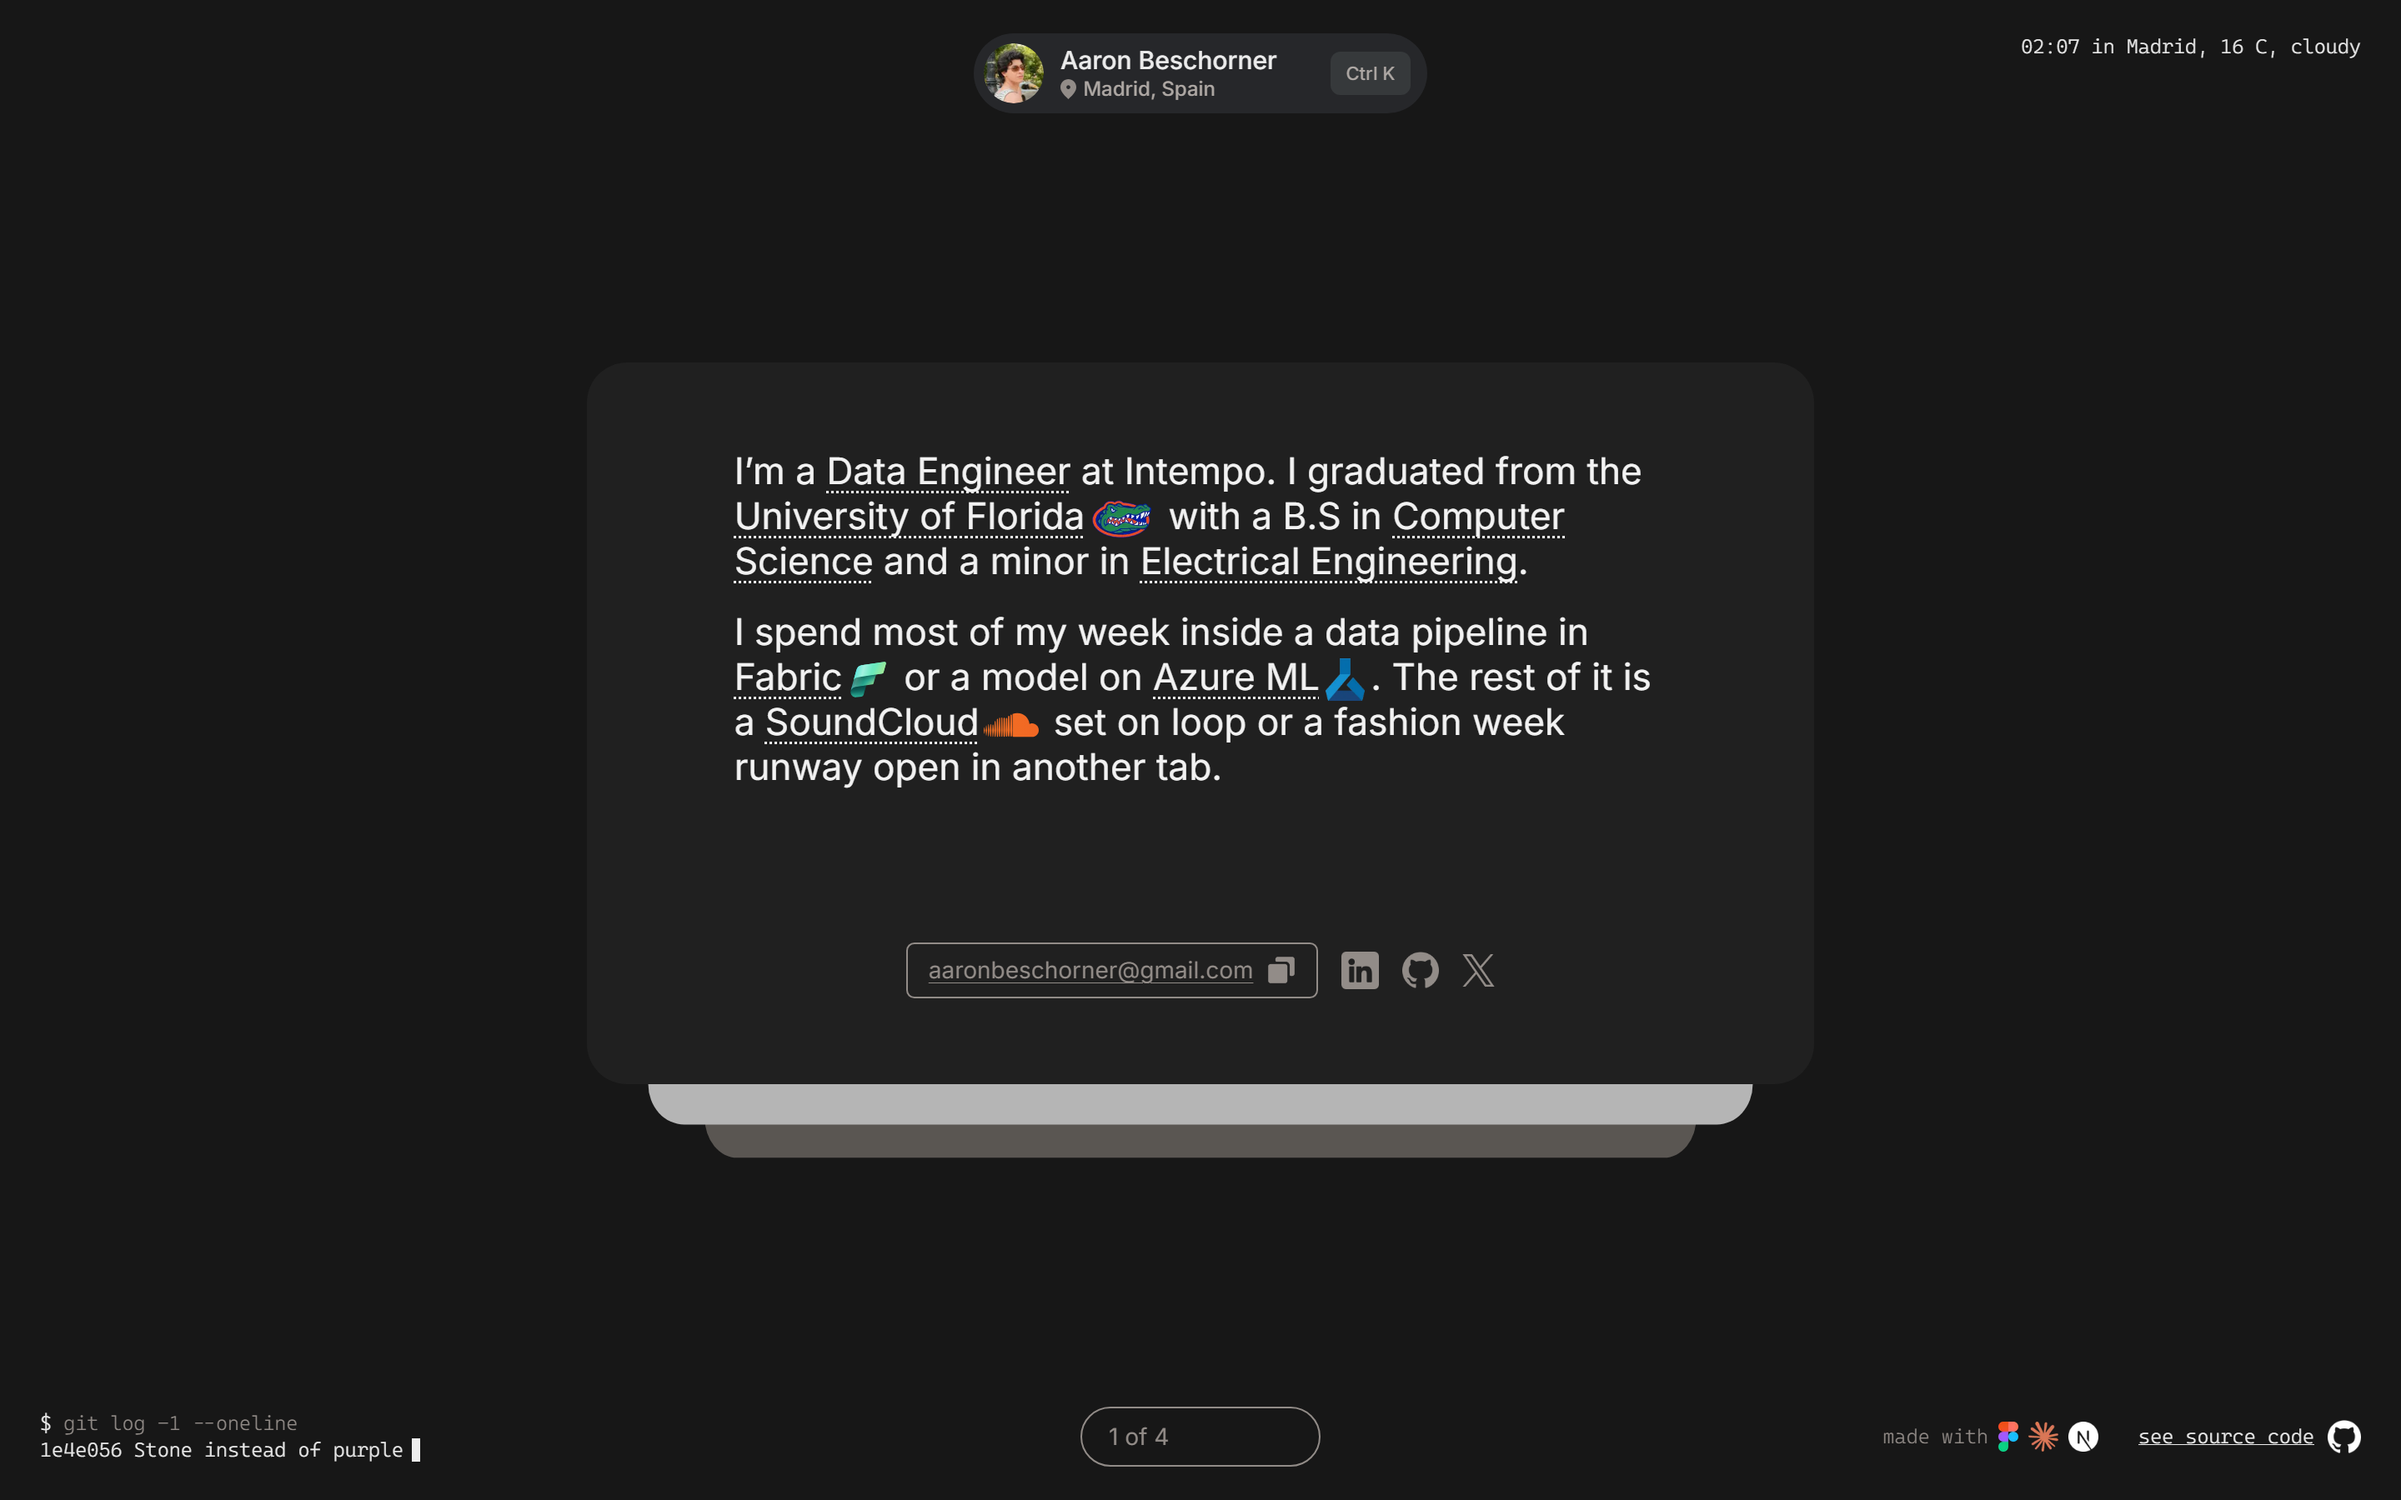
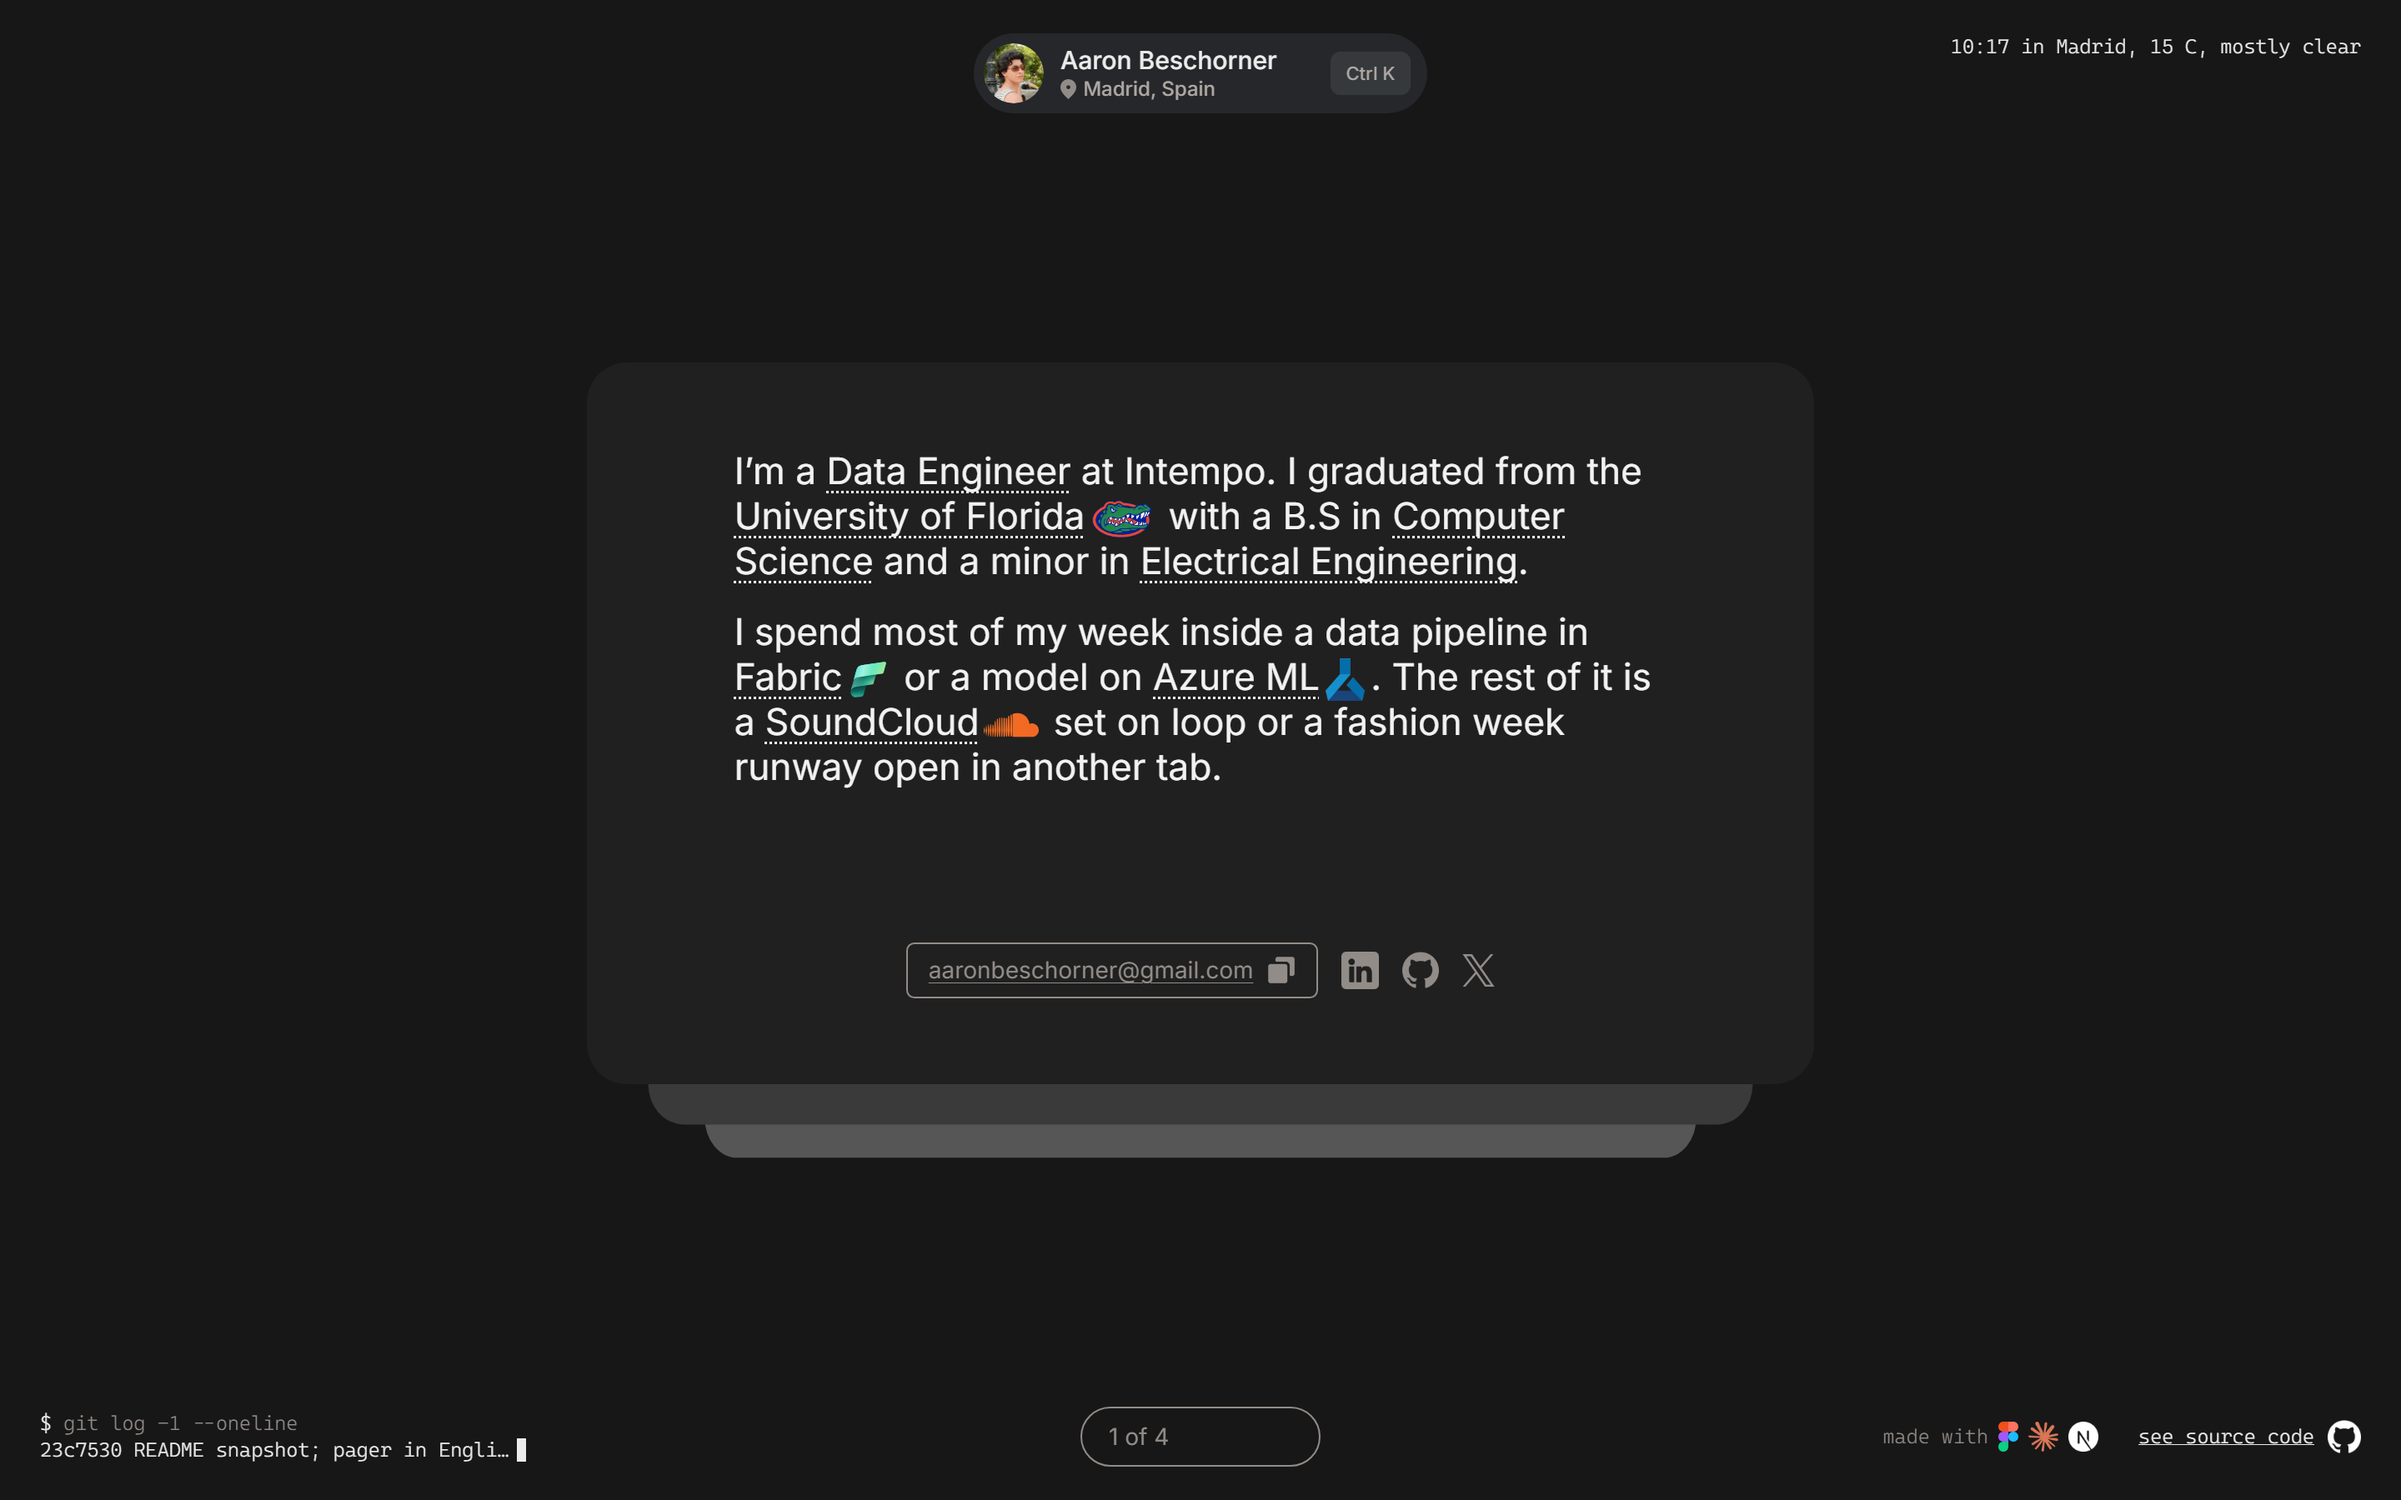
Neutral, ordered colors for the card stack

Changed region(s): [[0.25, 0.7156, 0.75, 0.7778], [0.0312, 0.9644, 0.125, 0.9956], [0.1562, 0.9644, 0.2188, 0.9956]]

diff --git a/app/globals.css b/app/globals.css
@@ -16,8 +16,10 @@
   /* Darker muted for small text on the island, so it stays readable over
      the glass (4.5:1 or better). */
   --color-muted-strong: #5b5652;
-  --color-stone: #cbc5bf; /* the third card and text selection */
-  --color-stack: #171717; /* the card right behind the front one */
+  /* The cards behind the front one, stepping steadily darker as they go
+     back, like cards falling into shadow. Neutral, like every surface. */
+  --color-layer-1: #989898;
+  --color-layer-2: #535353;
 
   /* Official University of Florida brand colors (brand.ufl.edu). */
   --color-gator-orange: #fa4616; /* PMS 172 */
@@ -85,9 +87,9 @@
   --color-fg: #f2f2f2;
   --color-ink: #ececec;
   --color-muted-strong: #aea8a4;
-  /* Softer than the dark ink, so the stack doesn't glare. */
-  --color-stack: #b5b5b5;
-  --color-stone: #5a5652;
+  /* Two soft charcoal steps: depth without glare. */
+  --color-layer-1: #3a3a3a;
+  --color-layer-2: #565656;
   --glass-tint: rgb(44 47 50 / 0.7);
   --glass-tint-reduced: rgb(42 44 47 / 0.8);
 }
@@ -98,8 +100,8 @@ body {
 }
 
 ::selection {
-  background: var(--color-stone);
-  color: var(--color-ink);
+  background: color-mix(in oklab, var(--color-ink) 18%, transparent);
+  color: inherit;
 }
 
 /*

diff --git a/components/Deck.tsx b/components/Deck.tsx
@@ -107,12 +107,12 @@ export function Deck({
 const LAYERS = [
   {
     transform: "translateY(5.6%) scaleX(0.9)",
-    bg: "bg-stack gators-layer",
+    bg: "bg-layer-1 gators-layer",
     z: 30,
   },
   {
     transform: "translateY(10.2%) scaleX(0.808)",
-    bg: "bg-stone gators-layer gators-alt",
+    bg: "bg-layer-2 gators-layer gators-alt",
     z: 20,
   },
 ];
